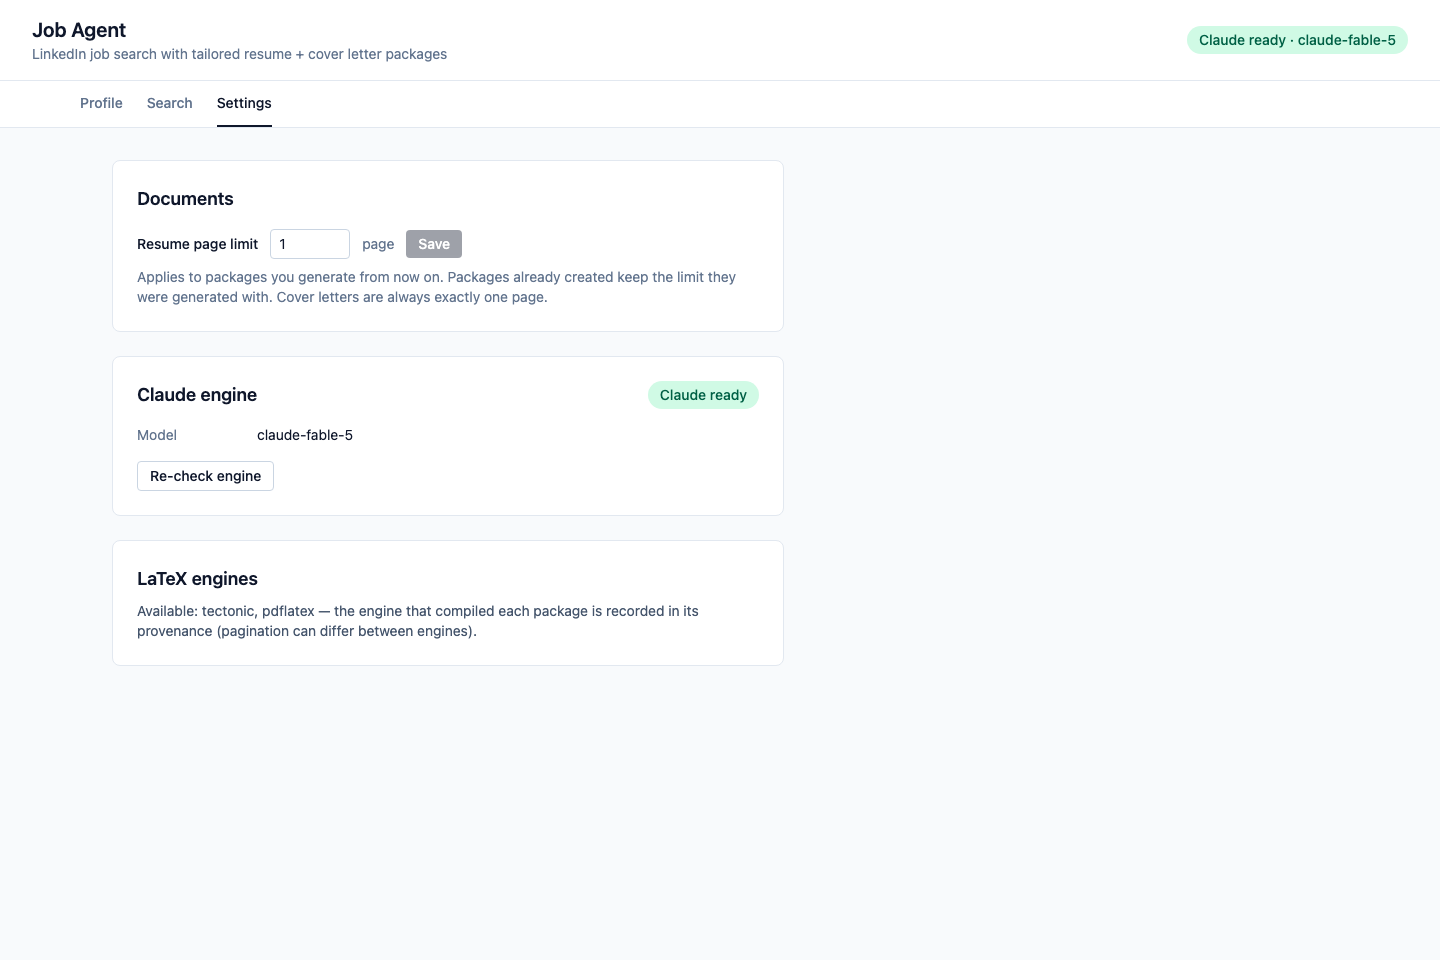
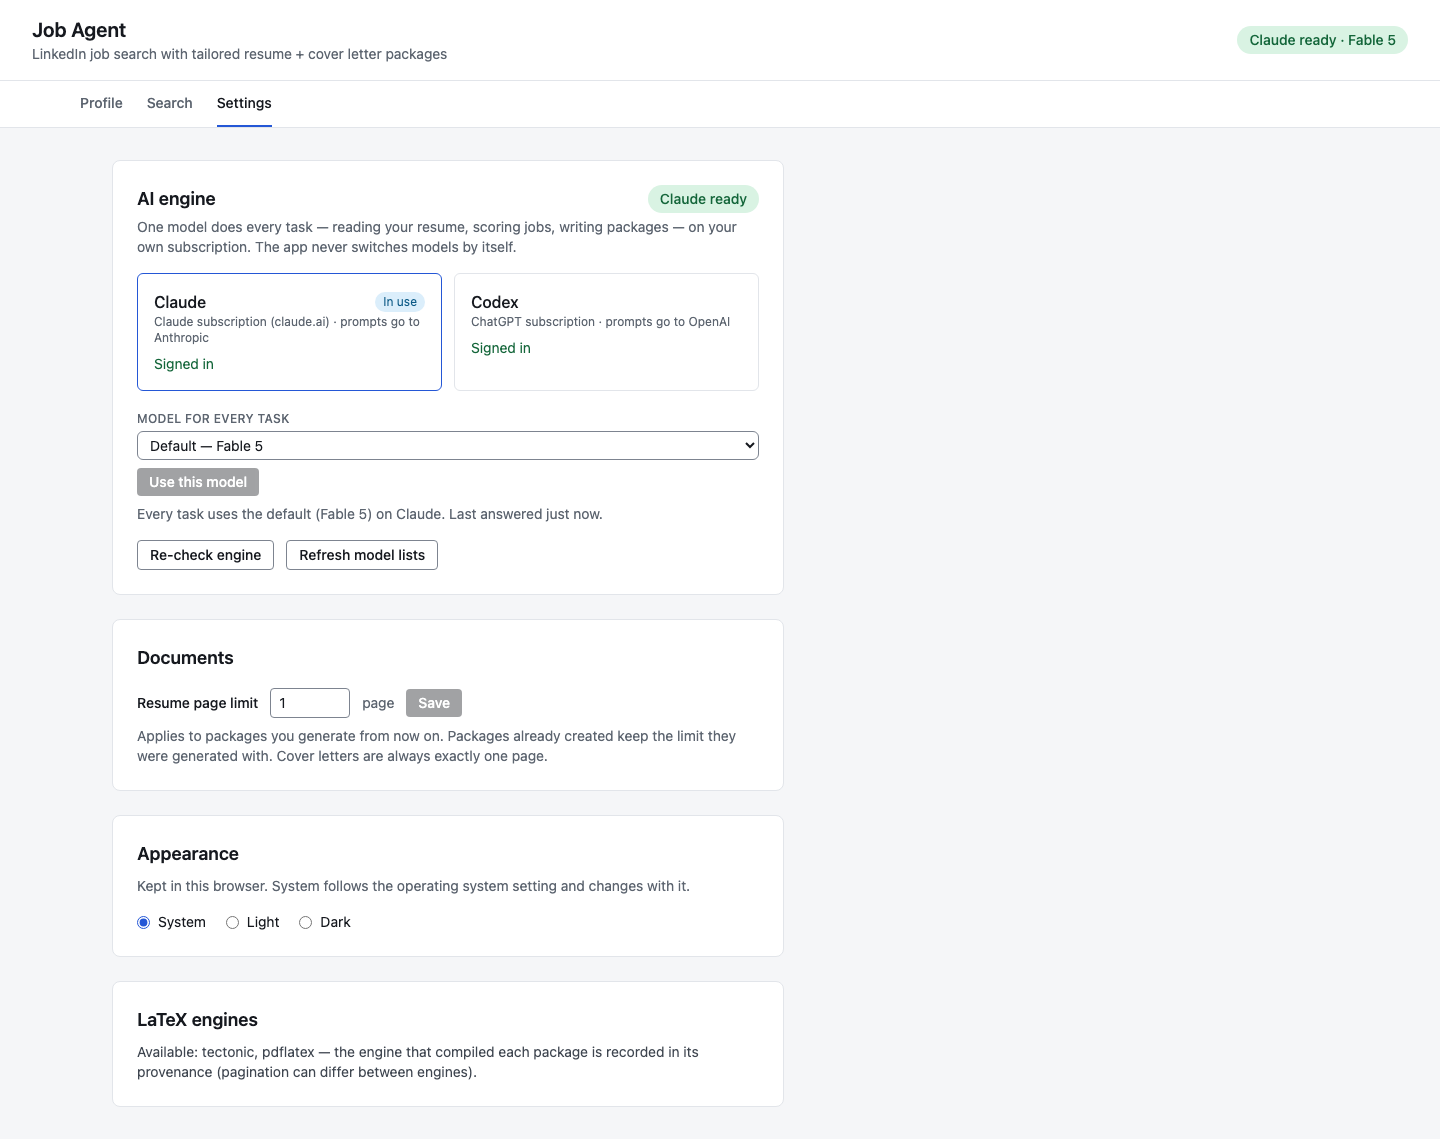
Docs and setup: the Codex engine is optional, one sign-in is enough
README: the subscription section covers both engines (Claude on a
claude.ai plan, Codex on a ChatGPT plan, never an API key), the one-model
choice in Settings, per-provider usage limits and what the picker does,
the Codex lockdown and its local pre-use check, and separate sign-ins in
.data/claude and .data/codex. Privacy now says prompts go to the engine
the user chooses, Anthropic or OpenAI, with both policies linked. The
stop-states list, the dependency table, the test section
(CODEX_TESTS_REQUIRED) and the architecture line follow. The Settings
screenshot is regenerated from the sanitized UI fixtures.

setup.sh: step 3 checks both engines and warns only when neither is
signed in; Codex is detected if installed and reported as optional.

CLAUDE.md: the Codex status command and the Codex test gate.

Claude-Session: https://claude.ai/code/session_01L2bVvh9g62hQbZwMaxZyX8

diff --git a/README.md b/README.md
@@ -38,7 +38,8 @@ Scored jobs, selection, and generated packages:
 
 ![Search results with scores and packages](docs/screenshots/search.png)
 
-Settings — resume page limit, engine health, LaTeX engines:
+Settings — the AI engine (one Claude or Codex model for every task), resume page
+limit, appearance, LaTeX engines:
 
 ![Settings page](docs/screenshots/settings.png)
 
@@ -61,6 +62,11 @@ uv run python -m backend.core.claude_cli auth login   # sign in with your Claude
 uv run job-agent                                      # → http://127.0.0.1:8700
 ```
 
+Prefer a ChatGPT plan? Install the [Codex CLI](https://developers.openai.com/codex/cli),
+sign in with `uv run python -m backend.core.codex_cli login`, and pick a Codex
+model under **Settings → AI engine**. One sign-in is enough; with both you can
+switch whenever one runs out of usage.
+
 `setup.sh` needs internet access and will report exactly what's missing and
 how to install it. The pieces:
 
@@ -71,6 +77,7 @@ how to install it. The pieces:
 | [Tectonic](https://tectonic-typesetting.github.io) **0.17+** or pdflatex | PDF typesetting | for PDF generation |
 | Tesseract + OCRmyPDF (+ Ghostscript) | scanned-resume OCR fallback | only for image-based PDFs |
 | Playwright Chromium | LinkedIn browser | installed by setup when needed |
+| [Codex CLI](https://developers.openai.com/codex/cli) | ChatGPT models (optional engine) | only to use Codex |
 
 An installed LaTeX engine is not always a working one — Tectonic 0.16.x
 aborts on this template's fonts. Setup test-compiles both real templates —
@@ -82,38 +89,64 @@ one. Re-check any time with:
 uv run python -m backend.tailor.smoke_pdf
 ```
 
-## Claude subscription — no API keys
+## Your subscription — Claude or Codex, no API keys
 
-All AI work runs through the **Claude Agent SDK using your Claude
-subscription** (Pro/Max). There are no API keys and no per-token billing —
-you sign in once with the same account you use for Claude.
+All AI work runs on **your own subscription**, never an API key and never
+per-token billing. Two engines, and you pick one model for every task:
 
-- The app prefers `claude-fable-5` and automatically falls back to
-  `claude-opus-5` if your plan doesn't include Fable.
-- Subscription usage limits apply. If you hit your plan's limit mid-batch,
-  the app pauses, shows a banner, and resumes automatically — no work is
-  lost and nothing is regenerated.
+- **Claude** — through the Claude Agent SDK on your Claude plan (Pro/Max),
+  signed in with `uv run python -m backend.core.claude_cli auth login`.
+- **Codex** — through the Codex CLI on your ChatGPT plan, signed in with
+  `uv run python -m backend.core.codex_cli login` (ChatGPT sign-in only;
+  an OpenAI API key is refused). Optional: install the CLI only if you
+  want these models.
+
+Choose the model under **Settings → AI engine**: either provider's list, or
+any model ID. The app never switches engines or models by itself.
+
+- The default is Claude: `claude-fable-5`, falling back to `claude-opus-5`
+  if your plan doesn't include Fable. A model you pick yourself never falls
+  back — if your plan doesn't have it, the app says so and waits for you to
+  pick another.
+- Subscription usage limits apply, per provider (every model of that
+  provider shares one limit). When a limit hits, queued work pauses and
+  resumes on its own when the limit lifts — nothing is lost or regenerated.
+  The engine picker opens once to show when it resets (when the provider
+  says) and to let you switch to the other provider's model and keep going;
+  it never opens over unsaved edits or an action still in flight — a banner
+  carries the same way out.
 - The model is locked down for this app: no file, shell, or web tools, and
   no open-ended agent loop — every call is a single prompt that must answer
-  in JSON.
-- The app keeps its own Claude sign-in in `.data/claude/`, separate from
-  any Claude Code install you may have — so the login command above is
-  needed once even if you already use Claude Code.
+  in JSON. For Codex, which is an agent with tools of its own, every
+  tool-bearing feature is switched off, and before a model is first used
+  (and again whenever Codex or its model entry changes) the app checks the
+  exact request Codex would send against a local stand-in: no tool beyond
+  an inert question prompt, and a model that tries to call a tool is
+  stopped at its first attempt. Nothing is sent upstream by that check.
+- Each engine keeps its own sign-in inside the app — `.data/claude/` and
+  `.data/codex/` — separate from any Claude Code or Codex install you may
+  have, so the login commands above are needed once even if you already
+  use those tools.
 
 > **Note for redistributors:** Anthropic requires prior approval for
 > third-party products that offer claude.ai sign-in (see the
 > [Agent SDK terms](https://code.claude.com/docs/en/agent-sdk/overview)).
 > Using this repo yourself on your own account is personal tooling; if you
-> ship a product based on it, get that approval first.
+> ship a product based on it, get that approval first, and check OpenAI's
+> terms before offering ChatGPT sign-in.
 
 ## Privacy
 
-- **Your resume content and job descriptions are sent to Claude (Anthropic)
-  for processing.** See [Anthropic's privacy policy](https://www.anthropic.com/legal/privacy).
+- **Your resume content and job descriptions are sent to the engine you
+  choose for processing: Claude (Anthropic) or Codex (OpenAI).** See
+  [Anthropic's privacy policy](https://www.anthropic.com/legal/privacy) and
+  [OpenAI's privacy policy](https://openai.com/policies/privacy-policy).
   Beyond that, the app's network traffic is LinkedIn itself (through your
   own signed-in browser session) and dependency downloads during setup;
   the bundled Claude CLI runs with telemetry and auto-update traffic
-  disabled.
+  disabled. The Codex CLI runs with web search off and only an allowlisted
+  environment (no API keys or proxy settings from yours reach it); its own
+  traffic goes to OpenAI.
 - The server binds to `127.0.0.1` only — nothing is exposed to your network.
 - All local state (your profile, jobs database, LinkedIn browser session)
   lives in `.data/`, created with owner-only permissions. Generated PDFs go
@@ -159,12 +192,14 @@ shipping something oversized or untrue.
 ## When something stops
 
 Every stop state is autonomous-by-default and visible: a banner explains
-what happened and the way out. Claude usage limit → queued scoring and
-package work pauses and resumes itself (never lost); one-off actions you
-trigger yourself (uploading a resume, Explain, Re-rank) fail with a clear
-error instead — retry them after the countdown; Claude sign-in expired →
-banner with the login command
-(Settings has a re-check button); LinkedIn checkpoint → search stops
+what happened and the way out. Usage limit (either engine) → queued
+scoring and package work pauses and resumes itself (never lost), and the
+engine picker shows when the limit resets and lets you switch to the other
+provider's model; one-off actions you trigger yourself (uploading a resume,
+Explain, Re-rank) fail with a clear error instead — retry them after the
+countdown or on the new model; sign-in expired → banner with the login
+command (Settings has a re-check button); chosen model not on your plan →
+banner, and work waits until you pick another; LinkedIn checkpoint → search stops
 cleanly, you solve it in the browser window and press Connect — the
 search then resumes on its own; LinkedIn session expired → reconnect
 from the Search tab. Interrupted work — including a killed server
@@ -196,6 +231,11 @@ docker run --rm -v "$PWD":/src:ro -v "$PWD/scripts/ci":/scratch:ro \
 # add -v "$HOME/ci-out":/out to keep its full test log and axe report
 ```
 
+The Codex engine tests (`backend/tests/test_codex_engine.py`) run the real
+Codex CLI, but only against localhost stand-ins — nothing is sent upstream
+and no subscription is spent. They skip when Codex is not installed; set
+`CODEX_TESTS_REQUIRED=1` to make that a failure instead.
+
 The browser tests (`backend/tests/test_ui_*.py`) drive the built frontend
 in Playwright's Chromium over synthetic API fixtures — no backend, no real
 data. They need `frontend/dist` (`cd frontend && npm run build`) and the
@@ -210,8 +250,8 @@ does.
 
 `PLAN.md` is the working spec. Architecture in short: FastAPI backend
 (SQLite state, SSE progress), React + Vite + Tailwind frontend, Playwright
-supervisor for LinkedIn, Tectonic/pdflatex for PDFs, Claude Agent SDK for
-all reasoning.
+supervisor for LinkedIn, Tectonic/pdflatex for PDFs, and the Claude Agent
+SDK or the Codex CLI — whichever you choose — for all reasoning.
 
 ## License
 

diff --git a/CLAUDE.md b/CLAUDE.md
@@ -40,5 +40,7 @@ output/     generated packages (gitignored)
 uv run job-agent                          # run the app (:8700)
 uv run python -m backend.tests.smoke_llm  # live engine smoke test (uses subscription)
 uv run python -m backend.core.claude_cli auth status   # bundled-CLI auth check
+uv run python -m backend.core.codex_cli status         # app's own Codex sign-in (ChatGPT only)
+CODEX_TESTS_REQUIRED=1 uv run pytest backend/tests/test_codex_engine.py  # Codex lockdown, local stand-ins only
 cd frontend && npm run build              # rebuild UI served by FastAPI
 ```
